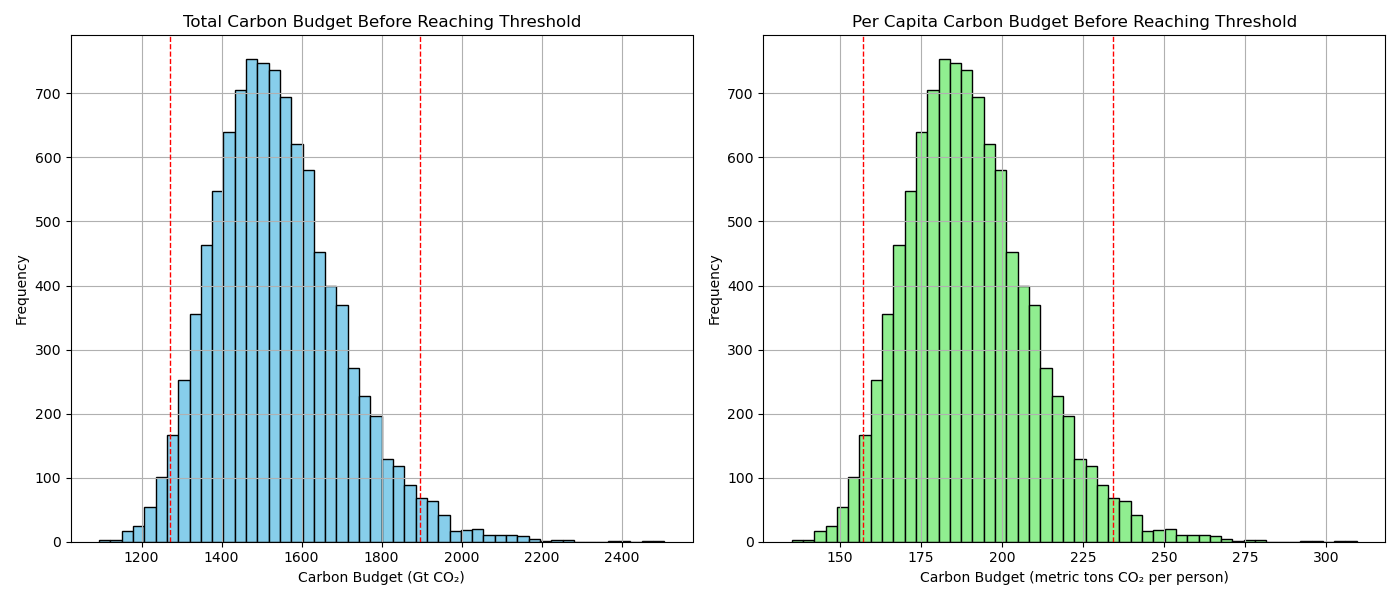
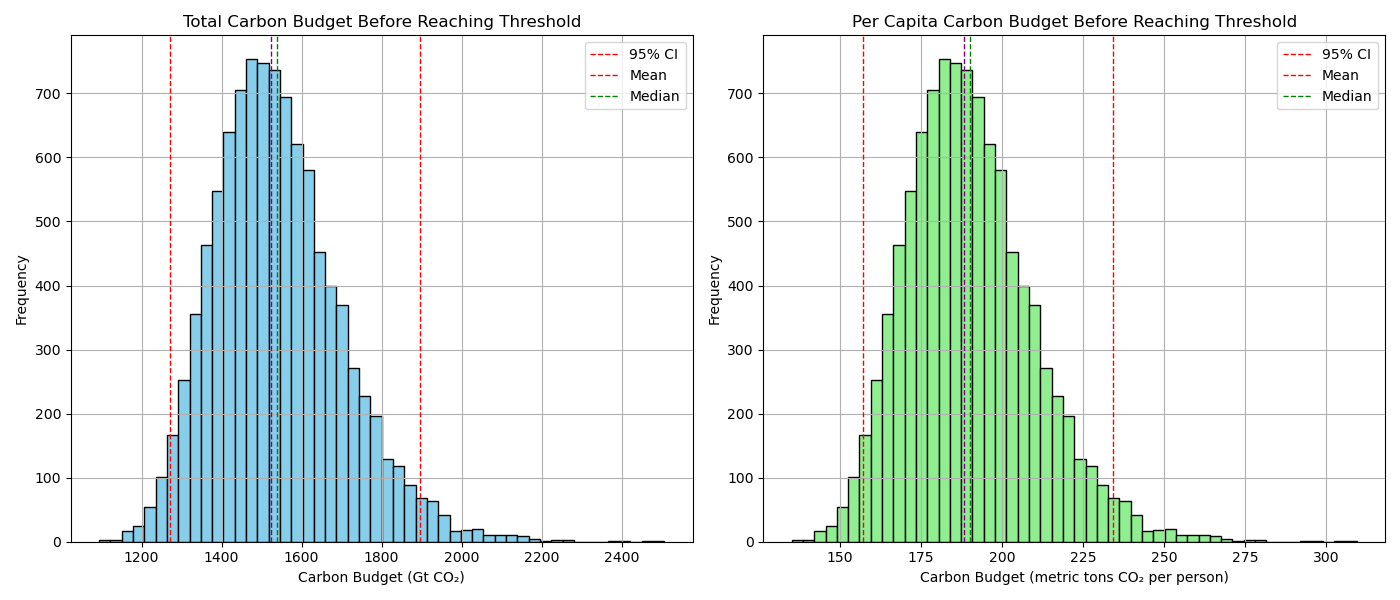
add legend, median and mean

diff --git a/part3.py b/part3.py
@@ -432,9 +432,18 @@ def plot_budget_uncertainty(
         linestyle="dashed",
         linewidth=1,
     )
+    # Add mean and median lines
+    plt.axvline(
+        np.mean(budget_gt_samples), color="green", linestyle="dashed", linewidth=1
+    )
+    plt.axvline(
+        np.median(budget_gt_samples), color="purple", linestyle="dashed", linewidth=1
+    )
+    # Add labels and title
     plt.title("Total Carbon Budget Before Reaching Threshold")
     plt.xlabel("Carbon Budget (Gt CO₂)")
     plt.ylabel("Frequency")
+    plt.legend(["95% CI", "Mean", "Median"])
     plt.grid(True)
 
     # Plot for Per Capita Carbon Budget
@@ -454,9 +463,24 @@ def plot_budget_uncertainty(
         linestyle="dashed",
         linewidth=1,
     )
+    # Add mean and median lines
+    plt.axvline(
+        np.mean(budget_per_capita_tons_samples),
+        color="green",
+        linestyle="dashed",
+        linewidth=1,
+    )
+    plt.axvline(
+        np.median(budget_per_capita_tons_samples),
+        color="purple",
+        linestyle="dashed",
+        linewidth=1,
+    )
+
     plt.title("Per Capita Carbon Budget Before Reaching Threshold")
     plt.xlabel("Carbon Budget (metric tons CO₂ per person)")
     plt.ylabel("Frequency")
+    plt.legend(["95% CI", "Mean", "Median"])
     plt.grid(True)
 
     plt.tight_layout()
